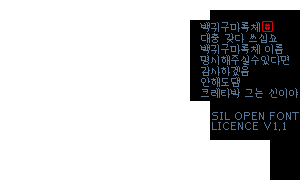
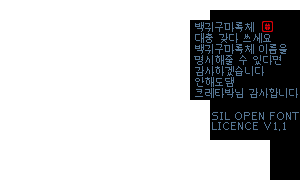
백귀구마록체 업데이트, 가이드 시트지에 있던 오타 수정

Changed region(s): [[0.63, 0.1111, 0.99, 0.5833]]

diff --git a/js/strings.js b/js/strings.js
@@ -83,6 +83,13 @@ const Strings = {
                     ( Waffleche.png )
                 </li>
                 <li>
+                    <a target="_blank" href="https://blog.naver.com/mightybeetle">
+                        백귀구마록체 by MightyBeetle
+                    </a><br>
+                    MightyBeetle님이 정성들여 만드신 한글 도해집 병합 도구용 도깨비한글 스프라이트 조합형 폰트입니다.<br>
+                    ( Paekgwiche.png )
+                </li>
+                <li>
                     <a target="_blank" href="https://spoqa.github.io/spoqa-han-sans">
                         Spoqa Han Sans
                     </a><br>
